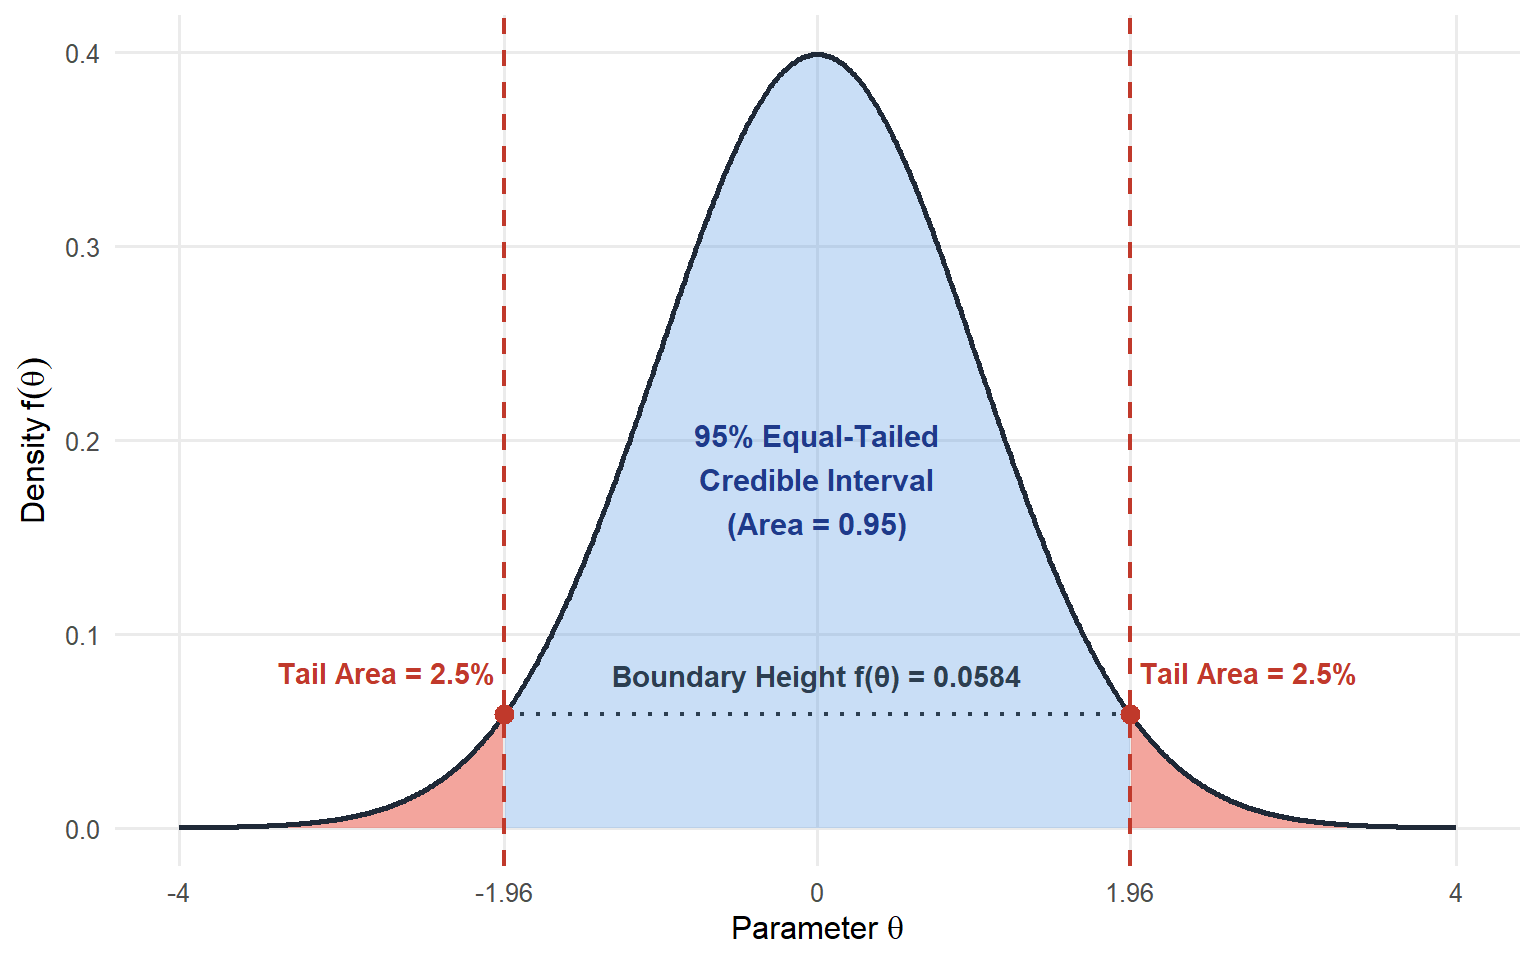
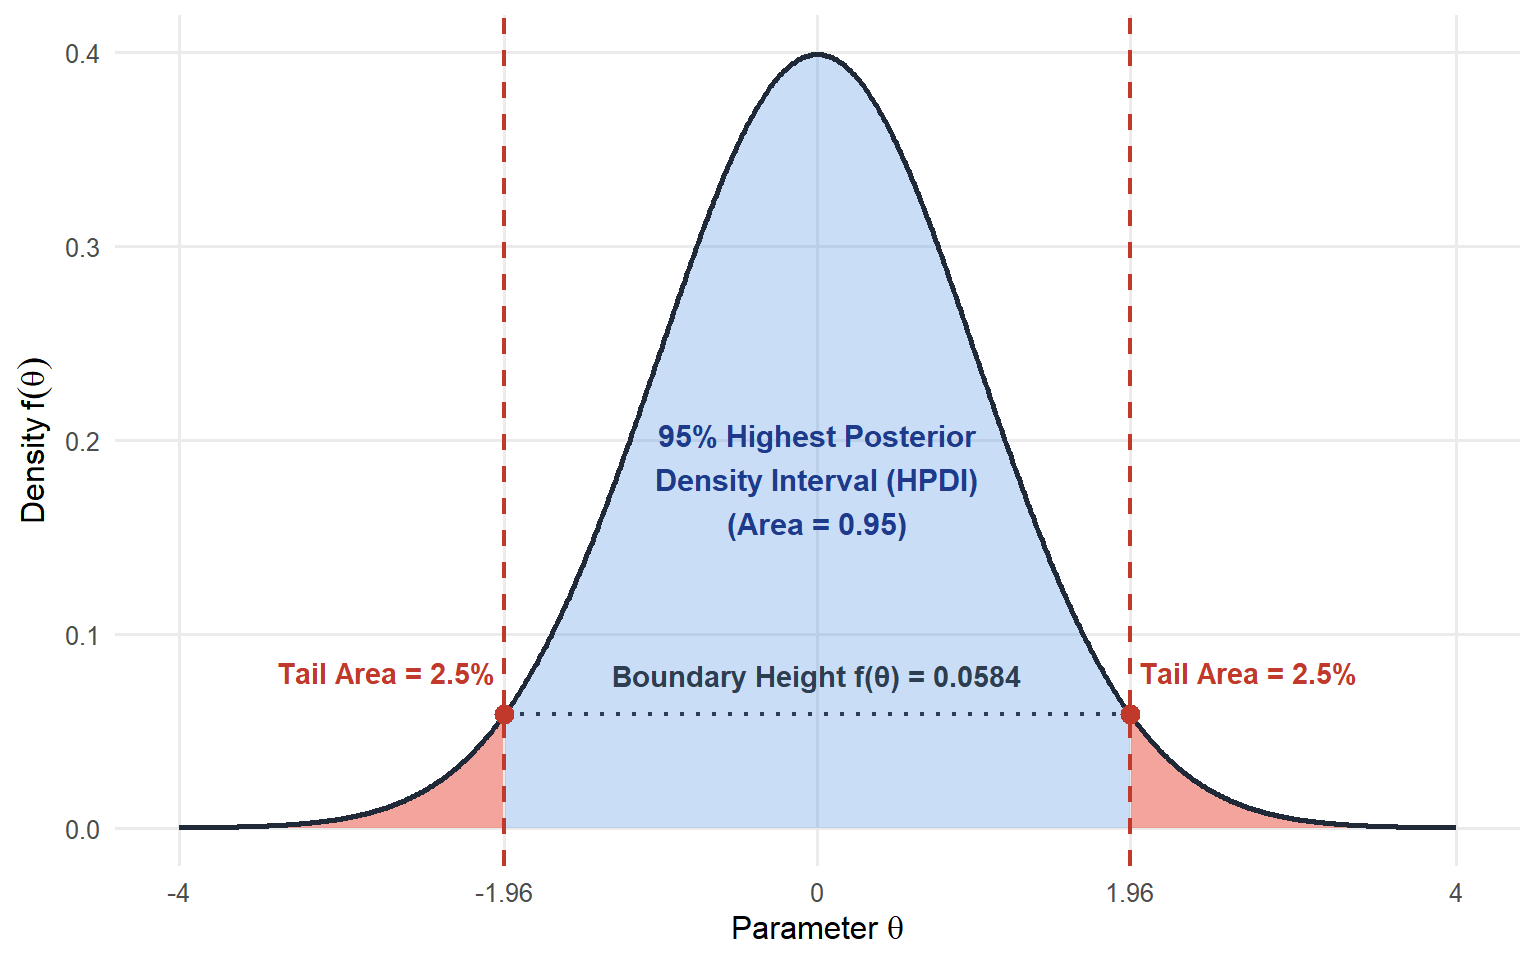
updates to review

Changed region(s): [[0.4062, 0.4375, 0.6562, 0.5312]]

diff --git a/docs/lecture/slides/Exam 2 Review/Exam 2 Review.html b/docs/lecture/slides/Exam 2 Review/Exam 2 Review.html
@@ -239,7 +239,7 @@ Mark Himmelstein
 <li>For example, a 95% credible interval represents 95% of the posterior distribution</li>
 <li>An 80% credible interval represents 80% of the posterior distribution</li>
 </ul>
-<p>But it doesn’t say WHICH 95% or 80%. Equal tailed and highest posterior density are two methods for choosing the</p>
+<p>But it doesn’t say WHICH 95% or 80%. Equal tailed and highest posterior density are two methods for choosing</p>
 </section>
 <section id="equal-tailed-credible-interval" class="slide level2">
 <h2>Equal Tailed Credible Interval</h2>
@@ -247,8 +247,8 @@ Mark Himmelstein
 <ul>
 <li>If we call <span class="math inline">\(c\)</span> the proportion of the credible interval (e.g.&nbsp;<span class="math inline">\(c = .95\)</span> for a 95% credible interval):
 <ul>
-<li>*exactly** <span class="math inline">\(\frac{1 - c}{2}\)</span> of the area of the distribution goes in the upper tail</li>
-<li>*exactly** <span class="math inline">\(\frac{1 - c}{2}\)</span> of the area of the distribution goes in the lower tail</li>
+<li><strong>exactly</strong> <span class="math inline">\(\frac{1 - c}{2}\)</span> of the area of the distribution goes in the upper tail</li>
+<li><strong>exactly</strong> <span class="math inline">\(\frac{1 - c}{2}\)</span> of the area of the distribution goes in the lower tail</li>
 </ul></li>
 </ul>
 <p>The next two slides show the equal tailed interval for a</p>
@@ -282,7 +282,7 @@ Mark Himmelstein
 <ul>
 <li>Regardless of whether distribution is symmetric</li>
 <li>Means we might have less total area in one tail than the other</li>
-<li>But There are no values outside the credible interval more likely than any values inside the credible interval</li>
+<li>But there are no values outside the credible interval more likely than any values inside the credible interval</li>
 </ul></li>
 <li>For symmetric posteriors, ETI and HPD will be equivalent</li>
 <li>For asymmetric posteriors, they will not</li>
@@ -317,7 +317,7 @@ Mark Himmelstein
 <p>The <strong>most important</strong> difference between frequentist and Bayesian statistics is philosophical:</p>
 <ul>
 <li>How do we <strong>infer</strong> what an <strong>unknown parameter</strong> is from messy data</li>
-<li><strong>Parameters:</strong> Numerical values that define probability distribution</li>
+<li><strong>Parameters:</strong> Numerical values that define a probability distribution</li>
 <li><strong>Data:</strong> Outcome of probability distribution</li>
 <li><strong>Statistical Theory:</strong> Parameters <strong>generate</strong> data
 <ul>
@@ -330,7 +330,7 @@ Mark Himmelstein
 <ul>
 <li>Bernoulli distribution: <span class="math inline">\(\pi\)</span> (probability, not 3.14)
 <ul>
-<li>Statistical estimate: observe binary outcomes and counting the proportion of successes</li>
+<li>Statistical estimate: observe binary outcomes and count the proportion of successes</li>
 </ul></li>
 <li>Normal distribution: <span class="math inline">\(\mu, \sigma\)</span>
 <ul>
@@ -347,7 +347,7 @@ Mark Himmelstein
 </section>
 <section id="philosophical-differences" class="slide level2">
 <h2>Philosophical Differences</h2>
-<div style="font-size: 0.8em;">
+<div style="font-size: 0.75em;">
 <div class="columns">
 <div class="column" style="width:50%;">
 <p><strong>Frequentist</strong></p>
@@ -358,7 +358,7 @@ Mark Himmelstein
 <li>Calculate how unlikely that statistical estimate would be if null hypothesis were true</li>
 <li>Parameter estimate is single value estimated by ordinary least squares, maximum likelihood, etc</li>
 <li>Uncertainty quantified with confidence intervals</li>
-<li>Focus on tests, which can be represented as general linear models</li>
+<li>Focus is often on on null hypothesis tests</li>
 </ul>
 </div><div class="column" style="width:50%;">
 <p><strong>Bayesian</strong></p>
@@ -368,9 +368,10 @@ Mark Himmelstein
 <li>Use Bayes’ rule to calculate posterior belief as new probability distribution about parameters given data</li>
 <li>Parameter estimate represents range of possible values and how likely those values are relative to others calculated by Markov Chain Monte Carlo</li>
 <li>Uncertainty quantified with credible intervals</li>
-<li>Focus on general linear models, which can be compared with Bayes factors</li>
+<li>Focus is posterior beliefs about coefficients</li>
 </ul>
 </div></div>
+<p><strong>General linear models are flexible ways of representing statistical estimates for a variety of research questions in both frequentist and Bayesian frameworks</strong></p>
 </div>
 </section>
 <section id="more-differences" class="slide level2">
@@ -492,8 +493,8 @@ Mark Himmelstein
 <p>I glossed over this initially, but we would still use MSW to define the standard error for this type of linear contrast:</p>
 <p><span class="math display">\[t(df) = \frac{\psi}{s_\psi}\]</span> Where:</p>
 <p><span class="math display">\[s_\psi = \sqrt{MSW\sum_{i=1}^G\frac{c_i^2}{n_i}}\]</span></p>
-<p>Same logic as for pairwise test except we weight each group by its <span class="math inline">\(c_i\)</span></p>
-<p><span class="math display">\[s_{x_1 - x_2} = \sqrt{\frac{MSW}{n_1} + \frac{MSW}{n_2}}\]</span></p>
+<p>Same logic as for pairwise test except we weight each group by its <span class="math inline">\(c_i\)</span>, where <span class="math inline">\(c_1 = 1\)</span> and <span class="math inline">\(c_2 = -1\)</span></p>
+<p><span class="math display">\[s_{x_1 - x_2} = \sqrt{\frac{MSW}{n_1} + \frac{MSW}{n_2}} = \sqrt{MSW\bigg(\frac{1^2}{n_1} + \frac{-1^2}{n_2}\bigg)}\]</span></p>
 </div>
 </section>
 <section id="review-question-4" class="slide level2">
@@ -548,14 +549,9 @@ Mark Himmelstein
 <li>Makes use of combinations of conditions as they exist in your data</li>
 </ul>
 </section>
-<section id="review-question-6" class="slide level2">
-<h2>Review Question 6</h2>
-<p>We learned that Bayesian inference can begin with either a subjective or a uniform prior. However, I’m curious about how researchers determine whether their chosen prior is appropriate.</p>
-<p>Since different priors can lead to different posterior distributions, are there any objective criteria or methods for evaluating whether a prior is reasonable, especially when there is limited previous evidence?</p>
-</section>
 <section id="ordinary-main-effects" class="slide level2">
 <h2>Ordinary Main Effects</h2>
-<div style="font-size: 0.8em;">
+<div style="font-size: 0.85em;">
 <ul>
 <li>More potential for misleading interpretation</li>
 <li>Effect of one factor <strong>averaged</strong> over <strong>all</strong> levels of other factor <strong>as they exist in your data</strong>
@@ -564,7 +560,7 @@ Mark Himmelstein
 </ul></li>
 <li>Effect of growing condition at average level of east and west side of hill
 <ul>
-<li>Always think about what it means to say you are averaging (aka marginalizing) over other factors when interpreting marginal main effects
+<li>Always think about what it means to say you are averaging (aka marginalizing) over other factors when interpreting ordinary main effects
 <ul>
 <li>Interaction may mean ordinary main effects are averaging two very different simple main effects in a way that doesn’t make sense</li>
 <li>Don’t generalize to other conditions that aren’t included in your data!</li>
@@ -572,6 +568,11 @@ Mark Himmelstein
 </ul></li>
 </ul>
 </div>
+</section>
+<section id="review-question-6" class="slide level2">
+<h2>Review Question 6</h2>
+<p>We learned that Bayesian inference can begin with either a subjective or a uniform prior. However, I’m curious about how researchers determine whether their chosen prior is appropriate.</p>
+<p>Since different priors can lead to different posterior distributions, are there any objective criteria or methods for evaluating whether a prior is reasonable, especially when there is limited previous evidence?</p>
 </section>
 <section id="choosing-priors" class="slide level2">
 <h2>Choosing Priors</h2>
@@ -596,6 +597,7 @@ Mark Himmelstein
 <li>In academic research regardless of whether you have a strong subjective prior, to avoid being criticized for a prior a reviewer might disagree with</li>
 <li>When you don’t have a strong subjective prior</li>
 </ul>
+<p>It also may help to try many different priors to see how much changing your prior affects results (sensitivity analysis)</p>
 </div>
 </section>
 <section id="review-question-7" class="slide level2">

diff --git a/docs/lecture/slides/Exam 2 Review/Exam 2 Review_v0.html b/docs/lecture/slides/Exam 2 Review/Exam 2 Review_v0.html
@@ -239,7 +239,7 @@ Mark Himmelstein
 <li>For example, a 95% credible interval represents 95% of the posterior distribution</li>
 <li>An 80% credible interval represents 80% of the posterior distribution</li>
 </ul>
-<p>But it doesn’t say WHICH 95% or 80%. Equal tailed and highest posterior density are two methods for choosing the</p>
+<p>But it doesn’t say WHICH 95% or 80%. Equal tailed and highest posterior density are two methods for choosing</p>
 </section>
 <section id="equal-tailed-credible-interval" class="slide level2">
 <h2>Equal Tailed Credible Interval</h2>
@@ -247,8 +247,8 @@ Mark Himmelstein
 <ul>
 <li>If we call <span class="math inline">\(c\)</span> the proportion of the credible interval (e.g.&nbsp;<span class="math inline">\(c = .95\)</span> for a 95% credible interval):
 <ul>
-<li>*exactly** <span class="math inline">\(\frac{1 - c}{2}\)</span> of the area of the distribution goes in the upper tail</li>
-<li>*exactly** <span class="math inline">\(\frac{1 - c}{2}\)</span> of the area of the distribution goes in the lower tail</li>
+<li><strong>exactly</strong> <span class="math inline">\(\frac{1 - c}{2}\)</span> of the area of the distribution goes in the upper tail</li>
+<li><strong>exactly</strong> <span class="math inline">\(\frac{1 - c}{2}\)</span> of the area of the distribution goes in the lower tail</li>
 </ul></li>
 </ul>
 <p>The next two slides show the equal tailed interval for a</p>
@@ -282,7 +282,7 @@ Mark Himmelstein
 <ul>
 <li>Regardless of whether distribution is symmetric</li>
 <li>Means we might have less total area in one tail than the other</li>
-<li>But There are no values outside the credible interval more likely than any values inside the credible interval</li>
+<li>But there are no values outside the credible interval more likely than any values inside the credible interval</li>
 </ul></li>
 <li>For symmetric posteriors, ETI and HPD will be equivalent</li>
 <li>For asymmetric posteriors, they will not</li>
@@ -317,7 +317,7 @@ Mark Himmelstein
 <p>The <strong>most important</strong> difference between frequentist and Bayesian statistics is philosophical:</p>
 <ul>
 <li>How do we <strong>infer</strong> what an <strong>unknown parameter</strong> is from messy data</li>
-<li><strong>Parameters:</strong> Numerical values that define probability distribution</li>
+<li><strong>Parameters:</strong> Numerical values that define a probability distribution</li>
 <li><strong>Data:</strong> Outcome of probability distribution</li>
 <li><strong>Statistical Theory:</strong> Parameters <strong>generate</strong> data
 <ul>
@@ -330,7 +330,7 @@ Mark Himmelstein
 <ul>
 <li>Bernoulli distribution: <span class="math inline">\(\pi\)</span> (probability, not 3.14)
 <ul>
-<li>Statistical estimate: observe binary outcomes and counting the proportion of successes</li>
+<li>Statistical estimate: observe binary outcomes and count the proportion of successes</li>
 </ul></li>
 <li>Normal distribution: <span class="math inline">\(\mu, \sigma\)</span>
 <ul>
@@ -347,7 +347,7 @@ Mark Himmelstein
 </section>
 <section id="philosophical-differences" class="slide level2">
 <h2>Philosophical Differences</h2>
-<div style="font-size: 0.8em;">
+<div style="font-size: 0.75em;">
 <div class="columns">
 <div class="column" style="width:50%;">
 <p><strong>Frequentist</strong></p>
@@ -358,7 +358,7 @@ Mark Himmelstein
 <li>Calculate how unlikely that statistical estimate would be if null hypothesis were true</li>
 <li>Parameter estimate is single value estimated by ordinary least squares, maximum likelihood, etc</li>
 <li>Uncertainty quantified with confidence intervals</li>
-<li>Focus on tests, which can be represented as general linear models</li>
+<li>Focus is often on on null hypothesis tests</li>
 </ul>
 </div><div class="column" style="width:50%;">
 <p><strong>Bayesian</strong></p>
@@ -368,9 +368,10 @@ Mark Himmelstein
 <li>Use Bayes’ rule to calculate posterior belief as new probability distribution about parameters given data</li>
 <li>Parameter estimate represents range of possible values and how likely those values are relative to others calculated by Markov Chain Monte Carlo</li>
 <li>Uncertainty quantified with credible intervals</li>
-<li>Focus on general linear models, which can be compared with Bayes factors</li>
+<li>Focus is posterior beliefs about coefficients</li>
 </ul>
 </div></div>
+<p><strong>General linear models are flexible ways of representing statistical estimates for a variety of research questions in both frequentist and Bayesian frameworks</strong></p>
 </div>
 </section>
 <section id="more-differences" class="slide level2">
@@ -480,8 +481,8 @@ Mark Himmelstein
 <p>I glossed over this initially, but we would still use MSW to define the standard error for this type of linear contrast:</p>
 <p><span class="math display">\[t(df) = \frac{\psi}{s_\psi}\]</span> Where:</p>
 <p><span class="math display">\[s_\psi = \sqrt{MSW\sum_{i=1}^G\frac{c_i^2}{n_i}}\]</span></p>
-<p>Same logic as for pairwise test except we weight each group by its <span class="math inline">\(c_i\)</span></p>
-<p><span class="math display">\[s_{x_1 - x_2} = \sqrt{\frac{MSW}{n_1} + \frac{MSW}{n_2}}\]</span></p>
+<p>Same logic as for pairwise test except we weight each group by its <span class="math inline">\(c_i\)</span>, where <span class="math inline">\(c_1 = 1\)</span> and <span class="math inline">\(c_2 = -1\)</span></p>
+<p><span class="math display">\[s_{x_1 - x_2} = \sqrt{\frac{MSW}{n_1} + \frac{MSW}{n_2}} = \sqrt{MSW\bigg(\frac{1^2}{n_1} + \frac{-1^2}{n_2}\bigg)}\]</span></p>
 </div>
 </section>
 <section id="review-question-4" class="slide level2">
@@ -536,14 +537,9 @@ Mark Himmelstein
 <li>Makes use of combinations of conditions as they exist in your data</li>
 </ul>
 </section>
-<section id="review-question-6" class="slide level2">
-<h2>Review Question 6</h2>
-<p>We learned that Bayesian inference can begin with either a subjective or a uniform prior. However, I’m curious about how researchers determine whether their chosen prior is appropriate.</p>
-<p>Since different priors can lead to different posterior distributions, are there any objective criteria or methods for evaluating whether a prior is reasonable, especially when there is limited previous evidence?</p>
-</section>
 <section id="ordinary-main-effects" class="slide level2">
 <h2>Ordinary Main Effects</h2>
-<div style="font-size: 0.8em;">
+<div style="font-size: 0.85em;">
 <ul>
 <li>More potential for misleading interpretation</li>
 <li>Effect of one factor <strong>averaged</strong> over <strong>all</strong> levels of other factor <strong>as they exist in your data</strong>
@@ -552,7 +548,7 @@ Mark Himmelstein
 </ul></li>
 <li>Effect of growing condition at average level of east and west side of hill
 <ul>
-<li>Always think about what it means to say you are averaging (aka marginalizing) over other factors when interpreting marginal main effects
+<li>Always think about what it means to say you are averaging (aka marginalizing) over other factors when interpreting ordinary main effects
 <ul>
 <li>Interaction may mean ordinary main effects are averaging two very different simple main effects in a way that doesn’t make sense</li>
 <li>Don’t generalize to other conditions that aren’t included in your data!</li>
@@ -560,6 +556,11 @@ Mark Himmelstein
 </ul></li>
 </ul>
 </div>
+</section>
+<section id="review-question-6" class="slide level2">
+<h2>Review Question 6</h2>
+<p>We learned that Bayesian inference can begin with either a subjective or a uniform prior. However, I’m curious about how researchers determine whether their chosen prior is appropriate.</p>
+<p>Since different priors can lead to different posterior distributions, are there any objective criteria or methods for evaluating whether a prior is reasonable, especially when there is limited previous evidence?</p>
 </section>
 <section id="choosing-priors" class="slide level2">
 <h2>Choosing Priors</h2>
@@ -584,6 +585,7 @@ Mark Himmelstein
 <li>In academic research regardless of whether you have a strong subjective prior, to avoid being criticized for a prior a reviewer might disagree with</li>
 <li>When you don’t have a strong subjective prior</li>
 </ul>
+<p>It also may help to try many different priors to see how much changing your prior affects results (sensitivity analysis)</p>
 </div>
 </section>
 <section id="review-question-7" class="slide level2">
